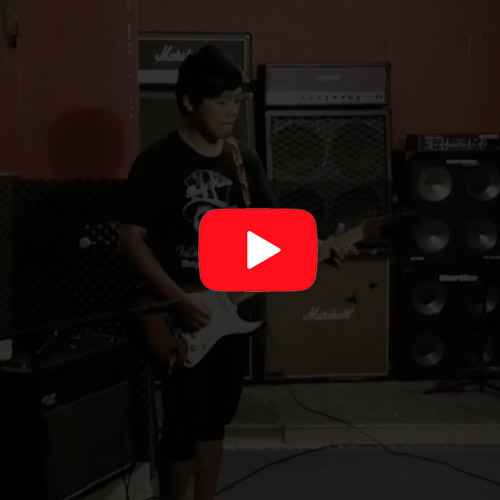
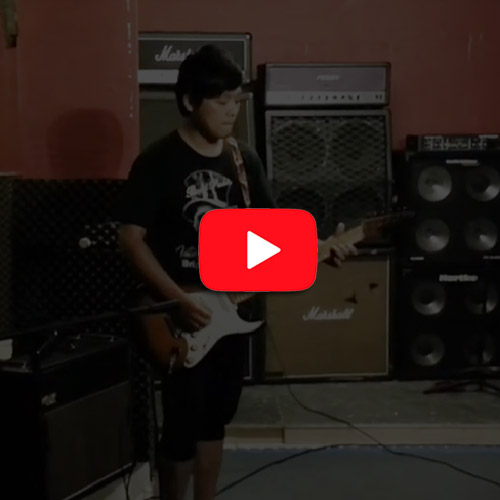
新增YT彈奏影片

diff --git a/roy.html b/roy.html
@@ -314,7 +314,7 @@
                 <div class="row musicain-topic">
                   <div class="col-xs-12 col-md-12 prd-topic">
                     <span>
-                      <a>演奏 / video</a>
+                      <a>VIDEO</a>
                     </span>
                   </div>
                 </div>
@@ -323,7 +323,6 @@
                   <!-- <div class="production">
                     規劃中 ......
                   </div> -->
-                  
                   <div class="col-xs-12 col-sm-4 hover01">
                       <h3>jam ~ 小さな頃から in 果凍樂器 live</h3>
                       <figure_new>
@@ -332,6 +331,15 @@
                         </a>
                       </figure_new>
                   </div>
+
+                  <div class="col-xs-12 col-sm-4 hover01">
+                    <h3>kiroro~~3人の写真 solo(速度版)</h3>
+                    <figure_new>
+                      <a href="https://www.youtube.com/watch?v=-5fNXT6rpKw" target="_blank">
+                        <img src="images/musician/roy/videoImg2.jpg" class="img-responsive courseImg "/>
+                      </a>
+                    </figure_new>
+                </div>
                 </div>
 
               </div>
